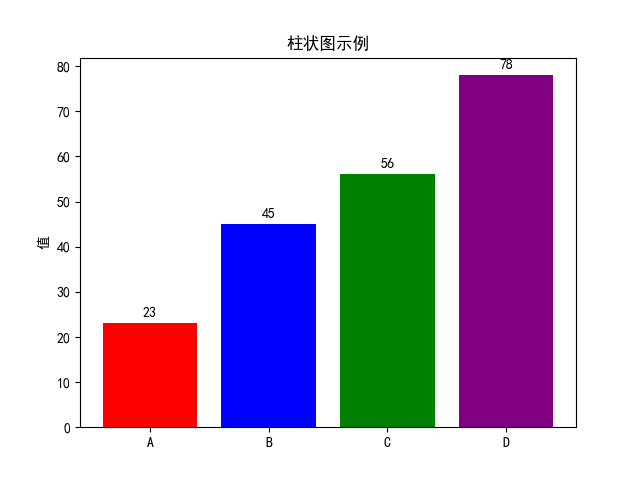
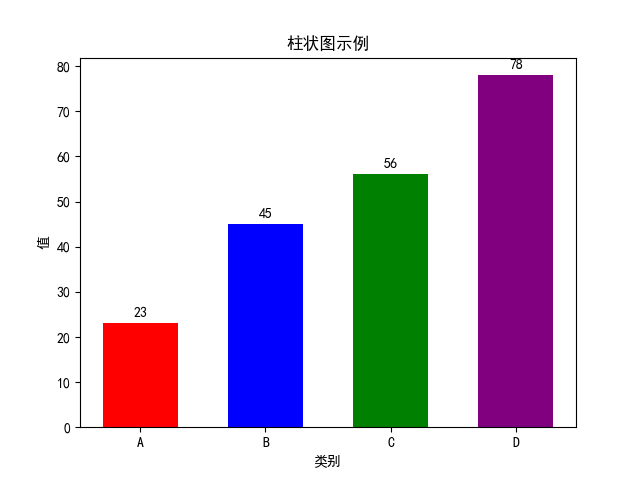
update week07

diff --git a/week07/wk7_task02.py b/week07/wk7_task02.py
@@ -1,86 +1,103 @@
-import matplotlib.pyplot as plt
-import numpy as np
-# from mpl_toolkits.mplot3d import Axes3D
+import matplotlib.pyplot as plt  # 导入 matplotlib 库，用于绘制图表
+import numpy as np  # 导入 numpy 库，用于生成数据和处理数组
+from matplotlib import rcParams  # 导入 rcParams 用于配置图表字体等属性
+
+# from mpl_toolkits.mplot3d import Axes3D  # 这是一个可选的 3D 库的导入，3D 图形需要用到
+
+# 设置字体为 SimHei 以支持中文显示，特别是对于 Windows 系统
+# 'font.sans-serif' 用于设置默认字体为 SimHei（黑体），以显示中文
+rcParams['font.sans-serif'] = ['SimHei']  # 用来正常显示中文标签
+# 'axes.unicode_minus' 设置为 False，确保负号能够正确显示
+rcParams['axes.unicode_minus'] = False  # 用来正常显示负号
 
 # 数据集
-x1 = [1, 2, 3, 4, 5]
-y1 = [2, 3, 5, 7, 11]
-y2 = [3, 4, 6, 9, 13]
+# 创建用于多折线图的 x 和 y 数据
+x1 = [1, 2, 3, 4, 5]  # x 轴数据，代表不同的点
+y1 = [2, 3, 5, 7, 11]  # y 轴数据，代表第一个数据集的值
+y2 = [3, 4, 6, 9, 13]  # y 轴数据，代表第二个数据集的值
 
-categories = ['A', 'B', 'C']
-values1 = [10, 20, 30]
-values2 = [5, 15, 25]
+# 堆叠柱状图的数据
+categories = ['A', 'B', 'C']  # 柱状图的类别标签
+values1 = [10, 20, 30]  # 第一个类别的值
+values2 = [5, 15, 25]  # 第二个类别的值
 
-labels = ['A', 'B', 'C', 'D']
-sizes = [25, 35, 20, 20]
+# 环形图的数据
+labels = ['A', 'B', 'C', 'D']  # 环形图的标签
+sizes = [25, 35, 20, 20]  # 每个部分的大小（比例）
 
-# 创建一个包含 2 行 2 列的子图
-fig, axs = plt.subplots(2, 2, figsize=(14, 10))
+# 创建一个包含 2 行 2 列的子图布局，每个子图会放置不同的图表
+fig, axs = plt.subplots(2, 2, figsize=(14, 10))  # 设置子图的总大小为 14x10 英寸
 
 # （1） 多折线图
-axs[0, 0].plot(x1, y1, color='blue', linestyle='-', marker='o', label='Dataset 1')
-axs[0, 0].plot(x1, y2, color='green', linestyle='--', marker='s', label='Dataset 2')
-axs[0, 0].set_title('Multiple Line Chart')
-axs[0, 0].set_xlabel('X-axis')
-axs[0, 0].set_ylabel('Y-axis')
-axs[0, 0].grid(True)
-axs[0, 0].legend()
+# 在第一个子图（第 0 行，第 0 列）中绘制多折线图
+axs[0, 0].plot(x1, y1, color='blue', linestyle='-', marker='o', label='Dataset 1')  # 绘制第一个数据集的折线图，蓝色实线和圆形标记
+axs[0, 0].plot(x1, y2, color='green', linestyle='--', marker='s', label='Dataset 2')  # 绘制第二个数据集的折线图，绿色虚线和方形标记
+axs[0, 0].set_title('Multiple Line Chart')  # 设置子图的标题
+axs[0, 0].set_xlabel('X-axis')  # 设置 x 轴标签
+axs[0, 0].set_ylabel('Y-axis')  # 设置 y 轴标签
+axs[0, 0].grid(True)  # 设置网格线
+axs[0, 0].legend()  # 显示图例
 
 # （2） 堆叠柱状图
-width = 0.35
-x = np.arange(len(categories))
-axs[0, 1].bar(x, values1, width, label='Values 1', color='blue')
-axs[0, 1].bar(x, values2, width, bottom=values1, label='Values 2', color='green')
-axs[0, 1].set_title('Stacked Bar Chart')
-axs[0, 1].set_xlabel('Categories')
-axs[0, 1].set_ylabel('Values')
-axs[0, 1].set_xticks(x)
-axs[0, 1].set_xticklabels(categories)
-axs[0, 1].legend()
+bar_width = 0.5  # 设置柱子的宽度
+index = np.arange(len(categories))  # 生成柱状图的 x 轴位置（每个类别的位置）
+# 使用 bar() 函数绘制堆叠柱状图，第一个数据集绘制在底部
+axs[0, 1].bar(index, values1, bar_width, color='blue', label='类别 1')  # 绘制第一个类别的柱子，蓝色
+# 第二个数据集绘制在第一个数据集之上（通过 bottom 参数实现堆叠）
+axs[0, 1].bar(index, values2, bar_width, bottom=values1, color='green', label='类别 2')  # 绘制第二个类别的柱子，绿色
 
-# 添加数据标签和百分比显示
+# 在每个堆叠柱子的正中间显示总值和百分比
 for i in range(len(categories)):
-    total = values1[i] + values2[i]
-    axs[0, 1].text(x[i], total + 1, f'{total}\n({values1[i] / total:.0%}, {values2[i] / total:.0%})', ha='center')
+    total = values1[i] + values2[i]  # 计算总值
+    # 在柱子上方显示总值和每个类别的百分比
+    axs[0, 1].text(i, values1[i] + values2[i] / 2,  # 在柱子中间位置显示文本
+                   f'{total}\n({values1[i] / total * 100:.2f}%, {values2[i] / total * 100:.2f}%)',  # 显示总值和百分比
+                   ha='center',  # 水平居中
+                   va='center')  # 垂直居中
 
+# 设置堆叠柱状图的标题、x 轴和 y 轴标签
+axs[0, 1].set_title('堆叠柱状图')  # 设置子图的标题
+axs[0, 1].set_xlabel('类别')  # 设置 x 轴标签
+axs[0, 1].set_ylabel('值')  # 设置 y 轴标签
+axs[0, 1].legend()  # 显示图例
+axs[0, 1].set_xticks(index, categories)  # 设置 x 轴刻度，并将类别标签显示在相应位置
 
 # （3） 环形图
-def make_autopct(values):
-    def my_autopct(pct):
-        total = sum(values)
-        val = int(round(pct * total / 100.0))
-        return f'{pct:.1f}%\n({val})'
+# 绘制一个环形图，类似于饼图，但是通过 wedgeprops 参数设置宽度来实现环形效果
+wedges, texts, autotexts = axs[1, 0].pie(sizes,  # 环形图每部分的大小
+                                         labels=labels,  # 设置每个部分的标签
+                                         wedgeprops=dict(width=0.3, edgecolor='w'),  # 设置环形宽度和边缘颜色
+                                         startangle=90,  # 从 90 度开始绘制
+                                         autopct='%1.1f%%',  # 自动显示百分比，保留一位小数
+                                         colors=['blue', 'green', 'red', 'orange'])  # 每个部分的颜色
+axs[1, 0].set(aspect="equal")  # 设置为等宽高比例以确保圆形外观
+axs[1, 0].set_title('环形图')  # 设置子图标题
 
-    return my_autopct
-
-
-wedges, texts, autotexts = axs[1, 0].pie(sizes, labels=labels, autopct=make_autopct(sizes), startangle=140,
-                                         wedgeprops=dict(width=0.3, edgecolor='w'))
-plt.setp(autotexts, size=10, weight="bold")
-axs[1, 0].set_title('Donut Chart')
-
-# 设置环形图中心留空
-centre_circle = plt.Circle((0, 0), 0.70, fc='white')
-fig.gca().add_artist(centre_circle)
+# 给每个 wedge（环形部分）设置边框颜色和宽度
+for wedge in wedges:
+    wedge.set_edgecolor('black')  # 设置边缘颜色为黑色
+    wedge.set_linewidth(1)  # 设置边缘线条宽度为 1
 
 # （4） 3D 曲面图
-X = np.linspace(-5, 5, 100)
-Y = np.linspace(-5, 5, 100)
-X, Y = np.meshgrid(X, Y)
-Z = np.sin(np.sqrt(X ** 2 + Y ** 2))
+# 创建用于 3D 曲面图的 x, y 坐标网格
+X = np.linspace(-5, 5, 100)  # 在 -5 到 5 之间生成 100 个均匀分布的点，作为 X 轴的值
+Y = np.linspace(-5, 5, 100)  # 在 -5 到 5 之间生成 100 个均匀分布的点，作为 Y 轴的值
+X, Y = np.meshgrid(X, Y)  # 生成一个二维网格坐标，X 和 Y 坐标的组合
+Z = np.sin(np.sqrt(X ** 2 + Y ** 2))  # 计算 Z 值，Z 是 X 和 Y 的函数，用于生成曲面
 
-ax = axs[1, 1].projection_3d = fig.add_subplot(224, projection='3d')
-ax.plot_surface(X, Y, Z, cmap='viridis')
-ax.set_title('3D Surface Plot')
-ax.set_xlabel('X-axis')
-ax.set_ylabel('Y-axis')
-ax.set_zlabel('Z-axis')
+# 在第四个子图（第 1 行，第 1 列）中绘制 3D 曲面图
+axs[1, 1] = plt.subplot(2, 2, 4, projection='3d')  # 为第四个子图设置 3D 投影
+axs[1, 1].plot_surface(X, Y, Z, cmap='viridis')  # 使用 viridis 颜色映射绘制 3D 曲面
+axs[1, 1].set_title('3D 曲面图')  # 设置子图的标题
+axs[1, 1].set_xlabel('X 轴')  # 设置 X 轴标签
+axs[1, 1].set_ylabel('Y 轴')  # 设置 Y 轴标签
+axs[1, 1].set_zlabel('Z 轴')  # 设置 Z 轴标签
 
-# 调整布局
-plt.tight_layout()
+# 调整子图布局以防止重叠
+plt.tight_layout()  # 自动调整子图之间的间距，确保布局不会重叠
 
-# 保存图表
-plt.savefig('charts.png')
+# 保存图表到文件
+plt.savefig('charts.png')  # 将生成的图表保存为 PNG 格式文件
 
 # 显示图表（可选，用于调试）
-plt.show()
+plt.show()  # 显示生成的图表

diff --git a/week07/wk7_task01.py b/week07/wk7_task01.py
@@ -38,7 +38,7 @@ values = [23, 45, 56, 78]
 colors = ['red', 'blue', 'green', 'purple']
 
 # 绘制柱状图
-plt.bar(categories, values, color=colors)
+plt.bar(categories, values, color=colors, width=0.6)
 
 # 添加数据标签
 for i, v in enumerate(values):  # i,v分别是索引和值
@@ -47,6 +47,7 @@ for i, v in enumerate(values):  # i,v分别是索引和值
 
 # 设置标题和轴标签（对于柱状图，x轴通常是类别标签，所以不需要设置x轴刻度）
 plt.title('柱状图示例')
+plt.xlabel('类别')
 plt.ylabel('值')
 
 # 保存图表
@@ -59,24 +60,18 @@ plt.show()
 # 随机生成数据
 np.random.seed(0)  # 设置随机种子以便结果可重复
 x_random = np.arange(1, 101)
-y_random = np.random.rand(100) * x_random  # 假设有一定的线性关系
+y_random = 2 * x_random + np.random.randn(100) * 10  # 假设有一定的线性关系
 
 # 绘制散点图
-plt.scatter(x_random, y_random, color='blue', s=10, alpha=0.5, label='数据点')
-
-# 计算趋势线（线性回归）
-coefficients = np.polyfit(x_random, y_random, 1)
-polynomial = np.poly1d(coefficients)
-trendline_x = np.linspace(1, 100, 100)
-trendline_y = polynomial(trendline_x)
+plt.scatter(x_random, y_random, color='blue', s=5, alpha=0.5, label='数据点', marker='o')
 
 # 绘制趋势线
-plt.plot(trendline_x, trendline_y, color='red', label='趋势线')
+plt.plot(x_random, 2 * x_random, color='red', label='趋势线')
 
 # 设置标题和轴标签
-plt.title('散点图及趋势线示例')
-plt.xlabel('x 值')
-plt.ylabel('y 值')
+plt.title('散点图示例')
+plt.xlabel('x')
+plt.ylabel('y')
 
 # 添加图例
 plt.legend()
@@ -96,7 +91,7 @@ explode = (0.1, 0, 0, 0)  # 突出显示第一个扇区
 
 # 绘制饼图
 plt.pie(sizes, explode=explode, labels=labels, colors=colors, autopct='%1.1f%%',
-        startangle=140)  # autopct 用于显示百分比，startangle 设置起始角度
+        startangle=90)  # autopct 用于显示百分比，startangle 设置起始角度
 
 # 设置标题（对于饼图，通常不需要x轴和y轴标签）
 plt.title('饼图示例')

diff --git a/week06/wk6_task03.py b/week06/wk6_task03.py
@@ -8,10 +8,11 @@ euro12 = pd.read_csv('data.csv')
 print(euro12['Goals'])
 
 # （4）有多少球队参与了2012欧洲杯？
-print(f"有多少球队参与了2012欧洲杯？{len(euro12['Team'].unique())}")
+print(f"有多少球队参与了2012欧洲杯？{euro12['Team'].nunique()}")  # unique是得到内容，nunique是得到数量
 
-# （5）该数据集中一共有多少列(columns)?
-print(f"数据集中一共有{len(euro12.columns)}列")
+# （5）该数据集中一共有多少列(columns)
+# euro12.shape 可以得到一个元组，这个元组的第一个元素是DataFrame的行数，第二个元素是列数。
+print(f"数据集中一共有{euro12.shape[1]}列")
 
 # （6）将数据集中的列Team, Yellow Cards和Red Cards单独存为一个名叫discipline的数据框
 discipline = euro12[['Team', 'Yellow Cards', 'Red Cards']]
